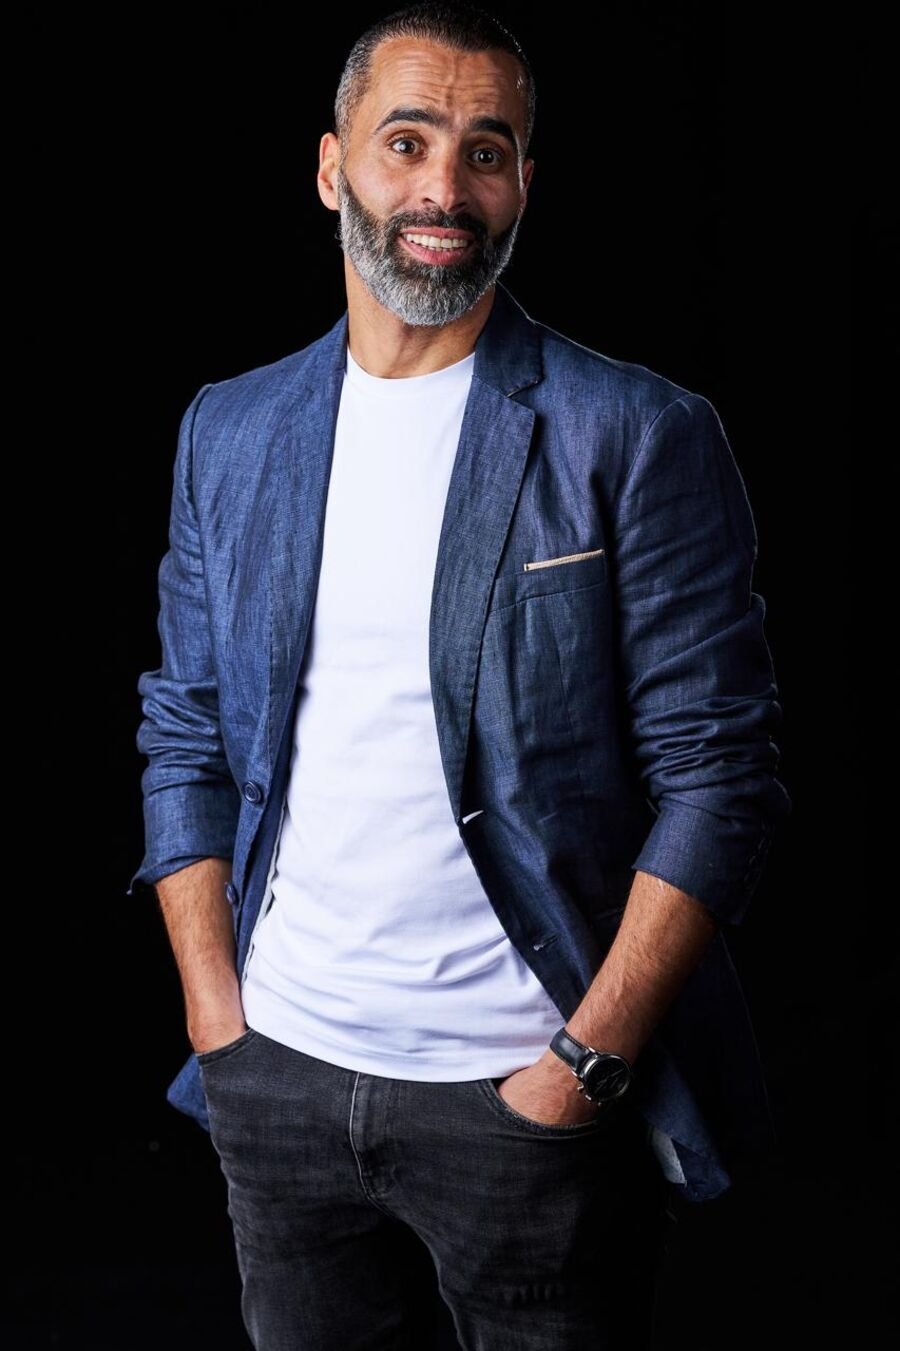
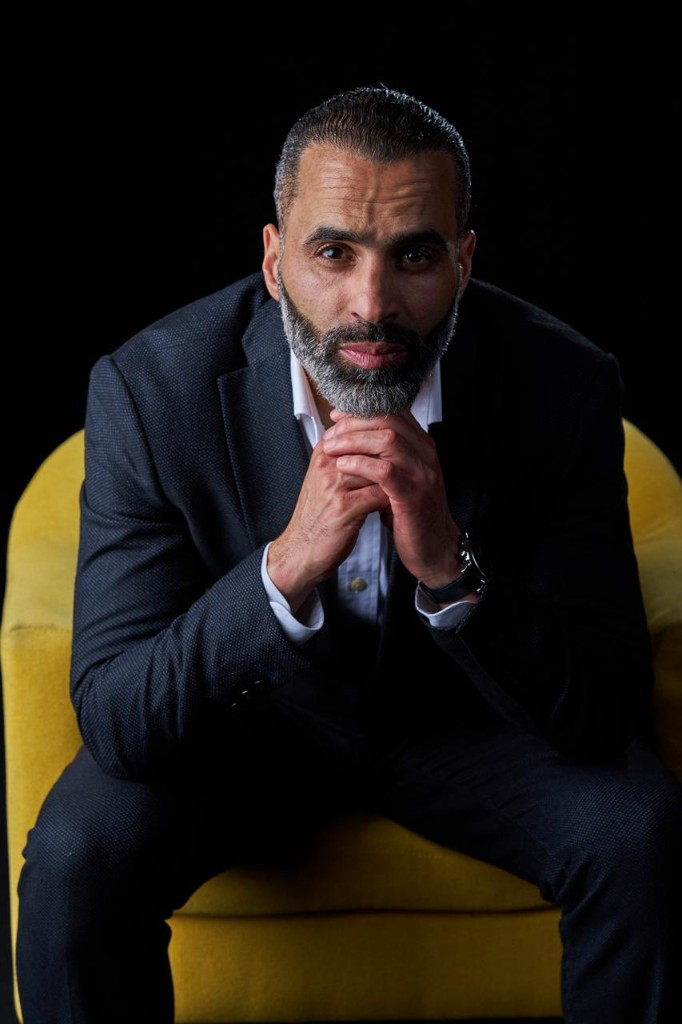
Dévoiler Hassan Zahi et aligner les textes de l'équipe (#22)
* Dévoiler Hassan Zahi à la place du formateur mystère.

* Placer le témoignage vidéo de Léa en sixième position.

* Doubler la taille des icônes Instagram et YouTube du pied de page.

* Aligner les présentations de Kheiron, Phil Darwin et Hassan Zahi.

* Ajouter les références de Hassan Zahi et Phil Darwin à leurs fiches.

---------

diff --git a/src/features/kheiron/KheironLanding.tsx b/src/features/kheiron/KheironLanding.tsx
@@ -389,16 +389,23 @@ export function KheironLanding({
         <div className="wrap team-head">
           <span className="eyebrow">Ton équipe sur les 4 jours</span>
           <h2>Kheiron ouvre le bal. Eux t&apos;emmènent jusqu&apos;à la scène.</h2>
-          <p className="lead">Phil Darwin t&apos;accompagne pendant les 4 jours. Avec un formateur mystère, ils reprennent ton texte là où Kheiron l&apos;a laissé, jusqu&apos;à la scène ouverte.</p>
+          <p className="lead">Phil Darwin et Hassan Zahi t&apos;accompagnent pendant les 4 jours. Ils reprennent ton texte là où Kheiron l&apos;a laissé, jusqu&apos;à la scène ouverte.</p>
           <div className="team">
             <article className="coach star">
               <div className="pic"><img decoding="async" src={img("kheiron.webp")} alt="Kheiron" width={900} height={910} loading="lazy" /></div>
-              <div className="body"><span className="role">Jour 1 · Masterclass</span><h3>Kheiron</h3><p>Humoriste, auteur, réalisateur. Il te fait passer sur scène et te coache sur ton propre sketch.</p></div>
+              <div className="body">
+                <span className="role">Jour 1 · Masterclass</span>
+                <h3>Kheiron</h3>
+                <p className="sub">Humoriste, comédien, auteur et réalisateur</p>
+                <p>Révélé au Jamel Comedy Club puis dans la série <em>Bref</em>, il est devenu une référence du stand-up français. Avec <em>60 minutes avec Kheiron</em>, un spectacle presque entièrement improvisé à partir du public, il a battu des records de longévité à Paris. Au cinéma, il écrit, réalise et joue dans <em>Nous trois ou rien</em>, nommé au César du meilleur premier film, puis dans <em>Mauvaises herbes</em> avec Catherine Deneuve.</p>
+                <p className="force">Sa marque : faire rire le public de lui-même, avec un sens de l&apos;improvisation et du rythme hors norme.</p>
+                <p>Pendant sa masterclass, il te fait monter sur scène et te coache sur ton propre sketch.</p>
+              </div>
             </article>
             <article className="coach">
               <div className="pic"><img className="darwin" decoding="async" src={img("phil-darwin.webp")} alt="Phil Darwin, micro à la main" width={683} height={1024} loading="lazy" /></div>
               <div className="body">
-                <span className="role">Les 4 jours · Formateur</span>
+                <span className="role">Les 4 jours</span>
                 <h3>Phil Darwin</h3>
                 <p className="sub">Humoriste, comédien et formateur</p>
                 <p>Artiste franco-congolais, il évolue depuis plus de 20 ans dans le stand-up, le théâtre et les médias. Il a joué à l&apos;Olympia, au Zénith de Paris et à La Cigale, et dans des festivals en Europe, en Afrique et en Amérique du Nord. Chroniqueur radio et comédien, il joue dans <em>Mayouya</em> de Claudia Yoka, présenté à Cannes en 2022.</p>
@@ -406,12 +413,15 @@ export function KheironLanding({
                 <p>Pendant les 4 jours, il t&apos;accompagne de tes premières prises de parole jusqu&apos;à ton sketch devant le public.</p>
               </div>
             </article>
-            <article className="coach mystery">
-              <div className="pic" aria-hidden="true"><span className="q-mark">?</span></div>
+            <article className="coach">
+              <div className="pic"><img className="zahi" decoding="async" src={img("hassan-zahi.webp")} alt="Hassan Zahi" width={682} height={1024} loading="lazy" /></div>
               <div className="body">
-                <span className="role">Jours 2 à 4 · Formateur mystère</span>
-                <h3>? ? ? ? ?</h3>
-                <p>Son nom reste secret pour l&apos;instant : il sera dévoilé prochainement. Les premiers inscrits le découvriront avant tout le monde.</p>
+                <span className="role">Les 4 jours</span>
+                <h3>Hassan Zahi</h3>
+                <p className="sub">Comédien, metteur en scène, coach et formateur certifié en santé mentale</p>
+                <p>Comédien, humoriste et metteur en scène, il pratique l&apos;improvisation théâtrale depuis plus de 17 ans et compte plus de 20 ans d&apos;expérience dans la formation et l&apos;accompagnement. Fondateur de <em>Franchement Ça Va</em>, qui fait de l&apos;humour un outil de prévention en santé mentale, il est spécialiste de l&apos;expression orale et de la confiance en soi.</p>
+                <p className="force">Sa force : t&apos;aider à dépasser tes appréhensions, révéler ta singularité artistique et oser prendre ta place sur scène.</p>
+                <p>Pendant les 4 jours, il t&apos;accompagne dans ta progression, jusqu&apos;à la présentation de ton sketch devant le public.</p>
               </div>
             </article>
           </div>
@@ -607,7 +617,7 @@ export function KheironLanding({
           <div className="faq">
             <details><summary>Je n&apos;ai jamais fait de scène. C&apos;est pour moi ?</summary><p>Oui. Aucune expérience préalable n&apos;est nécessaire, seule compte l&apos;envie de monter sur scène. Tu écris et tu rodes ton passage avec les formateurs avant la scène ouverte : tu ne montes pas devant le public sans préparation.</p></details>
             <details><summary>Est-ce que je dois arriver avec un texte ?</summary><p>Oui, apporte un premier sketch le jour 1, même brouillon. C&apos;est lui que tu joues devant Kheiron, puis que tu réécris tout au long de la formation jusqu&apos;à la scène finale. <span className="todo">Consigne exacte : durée, aide pour ceux qui partent de zéro</span></p></details>
-            <details><summary>Est-ce que Kheiron est présent les 4 jours ?</summary><p>Kheiron anime le jour 1, le samedi 28 novembre au Théâtre Apollo : la masterclass le matin, puis les passages coachés l&apos;après-midi. Phil Darwin t&apos;accompagne pendant les 4 jours, avec un formateur mystère dont le nom sera bientôt dévoilé, jusqu&apos;à la scène ouverte.</p></details>
+            <details><summary>Est-ce que Kheiron est présent les 4 jours ?</summary><p>Kheiron anime le jour 1, le samedi 28 novembre au Théâtre Apollo : la masterclass le matin, puis les passages coachés l&apos;après-midi. Phil Darwin et Hassan Zahi t&apos;accompagnent pendant les 4 jours, jusqu&apos;à la scène ouverte.</p></details>
             <details><summary>Pourquoi deux week-ends et pas 4 jours d&apos;affilée ?</summary><p>La semaine entre les deux sessions te laisse le temps de réécrire ton sketch avec ta feuille de route personnelle et d&apos;arriver au deuxième week-end avec un texte qui a déjà mûri. Et c&apos;est compatible avec un emploi ou une autre activité.</p></details>
             <details><summary>Comment se passe la scène finale ?</summary><p>Le dimanche 6 décembre au soir, dans un café-théâtre parisien, devant du public. Tu joues ton passage de 4 à 5 minutes, filmé en conditions professionnelles par une équipe de captation. Tu as un retour à chaud juste après.</p></details>
             <details><summary>Je ne suis pas à Paris, ça vaut le coup ?</summary><p>Les sessions ont lieu sur deux week-ends, ce qui permet de venir sans poser de congés. <span className="todo">Infos logement / tarifs hôtels partenaires</span></p></details>

diff --git a/src/lib/defaults.ts b/src/lib/defaults.ts
@@ -59,7 +59,7 @@ export const defaultSite = {
 } as const;
 
 /** Formateurs affichés sur le site, en plus des intervenants professionnels. */
-export const publicFormateurSlugs = ["phil-darwin", "formateur-mystere"] as const;
+export const publicFormateurSlugs = ["phil-darwin", "hassan-zahi"] as const;
 
 export const defaultIntervenants: IntervenantData[] = [
   {
@@ -92,13 +92,13 @@ export const defaultIntervenants: IntervenantData[] = [
   {
     slug: "hassan-zahi",
     nom: "Hassan Zahi",
-    role: "Réalisateur & formateur",
+    role: "Comédien, metteur en scène, coach et formateur certifié en santé mentale",
     parrain: false,
     categorie: "formateur",
-    bio: "Formateur pédagogique. Accompagne les élèves sur la mise en scène, le découpage et la conduite de plateau. Retours pro directs pour gagner en autonomie sur un vrai tournage.",
-    filmographie: ["Rose"],
-    photoUrl: "/images/formations/formation-realiser-court-metrage.jpg",
-    photoMimeType: "image/jpeg",
+    bio: "Comédien, humoriste et metteur en scène, il pratique l'improvisation théâtrale depuis plus de 17 ans et compte plus de 20 ans d'expérience dans la formation et l'accompagnement. Fondateur de Franchement Ça Va, qui fait de l'humour un outil de prévention en santé mentale, il est spécialiste de l'expression orale et de la confiance en soi. Sa force : t'aider à dépasser tes appréhensions, révéler ta singularité artistique et oser prendre ta place sur scène. Pendant les 4 jours, il t'accompagne dans ta progression, jusqu'à la présentation de ton sketch devant le public.",
+    filmographie: ["Braquo", "Destino", "En attendant demain", "Famille d'accueil", "Rose"],
+    photoUrl: "/images/intervenants/hassan-zahi.webp",
+    photoMimeType: "image/webp",
   },
   {
     slug: "sandy-formateur",
@@ -114,10 +114,10 @@ export const defaultIntervenants: IntervenantData[] = [
   {
     slug: "kheiron",
     nom: "Kheiron",
-    role: "Humoriste, auteur et réalisateur",
+    role: "Humoriste, comédien, auteur et réalisateur",
     parrain: false,
     categorie: "professionnel",
-    bio: "Humoriste, auteur et réalisateur. Le jour 1, il anime la masterclass et te coache sur ton propre sketch : tu joues devant lui, il te corrige sur ton texte.",
+    bio: "Révélé au Jamel Comedy Club puis dans la série Bref, il est devenu une référence du stand-up français. Avec 60 minutes avec Kheiron, un spectacle presque entièrement improvisé à partir du public, il a battu des records de longévité à Paris. Au cinéma, il écrit, réalise et joue dans Nous trois ou rien, nommé au César du meilleur premier film, puis dans Mauvaises herbes avec Catherine Deneuve. Sa marque : faire rire le public de lui-même, avec un sens de l'improvisation et du rythme hors norme. Pendant sa masterclass, il te fait monter sur scène et te coache sur ton propre sketch.",
     filmographie: [
       "60 minutes",
       "Dragon",
@@ -134,20 +134,9 @@ export const defaultIntervenants: IntervenantData[] = [
     role: "Humoriste, comédien et formateur",
     parrain: false,
     categorie: "formateur",
-    bio: "Artiste franco-congolais, il évolue depuis plus de 20 ans dans le stand-up, le théâtre et les médias. Il a joué à l'Olympia, au Zénith de Paris et à La Cigale, et dans des festivals en Europe, en Afrique et en Amérique du Nord. Chroniqueur radio et comédien, il joue dans Mayouya de Claudia Yoka, présenté à Cannes en 2022. Il transmet le métier : écriture humoristique, interprétation, rythme comique et présence scénique. Pendant les 4 jours, il t'accompagne jusqu'à ton sketch devant le public.",
-    filmographie: ["Mayouya"],
+    bio: "Artiste franco-congolais, il évolue depuis plus de 20 ans dans le stand-up, le théâtre et les médias. Il a joué à l'Olympia, au Zénith de Paris et à La Cigale, et dans des festivals en Europe, en Afrique et en Amérique du Nord. Chroniqueur radio et comédien, il joue dans Mayouya de Claudia Yoka, présenté à Cannes en 2022. Il transmet le métier en masterclass et en formation : écriture humoristique, interprétation, rythme comique et présence scénique. Pendant les 4 jours, il t'accompagne de tes premières prises de parole jusqu'à ton sketch devant le public.",
+    filmographie: ["La vie de Lougah", "Jamel Comedy Club", "Mayouya"],
     photoUrl: "/images/intervenants/phil-darwin.webp",
-    photoMimeType: "image/webp",
-  },
-  {
-    slug: "formateur-mystere",
-    nom: "Formateur mystère",
-    role: "Formateur",
-    parrain: false,
-    categorie: "formateur",
-    bio: "Son nom reste secret pour l'instant : il sera dévoilé prochainement. Les premiers inscrits le découvriront avant tout le monde.",
-    filmographie: [],
-    photoUrl: "/images/intervenants/formateur-mystere.webp",
     photoMimeType: "image/webp",
   },
 ];

diff --git a/src/lib/formations-catalog.ts b/src/lib/formations-catalog.ts
@@ -2379,12 +2379,12 @@ export const formationsCatalog: Omit<FormationData, "active">[] = [
       "Montage de la captation remis après la formation",
     ],
     encadrement:
-      "Le jour 1, Kheiron anime la masterclass au Théâtre Apollo et coache les passages. Phil Darwin accompagne le groupe pendant les 4 jours, avec un formateur dont le nom reste secret jusqu'à l'annonce.",
+      "Le jour 1, Kheiron anime la masterclass au Théâtre Apollo et coache les passages. Phil Darwin et Hassan Zahi accompagnent le groupe pendant les 4 jours, jusqu'à la scène ouverte.",
     evaluation:
       "Le jour 1, ton passage devant Kheiron est filmé : c'est le point de départ. Les filages du jour 3 servent de retours en cours de parcours. La scène ouverte du jour 4 est filmée, avec un bilan à chaud. Tu repars avec les captations et une attestation de fin de formation.",
     accessibilite:
       "Les locaux sont accessibles et les modalités pédagogiques peuvent être adaptées en fonction des besoins. Toute situation particulière est étudiée en amont avec le référent handicap.",
-    intervenants: ["kheiron", "phil-darwin", "formateur-mystere"],
+    intervenants: ["kheiron", "phil-darwin", "hassan-zahi"],
     faq: [
       {
         q: "Je n'ai jamais fait de scène. C'est pour moi ?",
@@ -2396,7 +2396,7 @@ export const formationsCatalog: Omit<FormationData, "active">[] = [
       },
       {
         q: "Est-ce que Kheiron est présent les 4 jours ?",
-        r: "Kheiron anime le jour 1, le samedi 28 novembre au Théâtre Apollo : la masterclass, puis les passages coachés. Phil Darwin t'accompagne pendant les 4 jours, jusqu'à la scène ouverte.",
+        r: "Kheiron anime le jour 1, le samedi 28 novembre au Théâtre Apollo : la masterclass, puis les passages coachés. Phil Darwin et Hassan Zahi t'accompagnent pendant les 4 jours, jusqu'à la scène ouverte.",
       },
       {
         q: "Pourquoi deux week-ends ?",

diff --git a/src/features/temoignages-video/videos.ts b/src/features/temoignages-video/videos.ts
@@ -11,12 +11,12 @@ const vid = (file: string) => `${KHEIRON_MEDIA}/videos/${file}`;
 
 /** Les sept témoignages filmés, partagés par l'accueil et la page Kheiron. */
 export const temoignageVideos: readonly TemoignageVideo[] = [
-  { src: vid("temoignage-lea.mp4"), poster: img("temoignage-lea.webp"), nom: "Léa" },
   { src: vid("temoignage-clement.mp4"), poster: img("temoignage-clement.webp"), nom: "Clément" },
   { src: vid("temoignage-chloe.mp4"), poster: img("temoignage-chloe.webp"), nom: "Chloé" },
   { src: vid("temoignage-maxime.mp4"), poster: img("temoignage-maxime.webp"), nom: "Maxime" },
   { src: vid("temoignage-klemence.mp4"), poster: img("temoignage-klemence.webp"), nom: "Klémence" },
   { src: vid("temoignage-caner.mp4"), poster: img("temoignage-caner.webp"), nom: "Caner" },
+  { src: vid("temoignage-lea.mp4"), poster: img("temoignage-lea.webp"), nom: "Léa" },
   { src: vid("temoignage-jean.mp4"), poster: img("temoignage-jean.webp"), nom: "Jean" },
 ];
 

diff --git a/src/components/layout/Footer.tsx b/src/components/layout/Footer.tsx
@@ -109,7 +109,7 @@ export function Footer({ site, formations }: FooterProps) {
                         aria-label="Instagram Cinémergence"
                         className="text-cream/70 transition-colors hover:text-or-light"
                       >
-                        <InstagramIcon />
+                        <InstagramIcon className="h-10 w-10" />
                       </a>
                     )}
                     {site.youtubeUrl && (
@@ -120,7 +120,7 @@ export function Footer({ site, formations }: FooterProps) {
                         aria-label="YouTube Cinémergence"
                         className="text-cream/70 transition-colors hover:text-or-light"
                       >
-                        <YoutubeIcon />
+                        <YoutubeIcon className="h-10 w-10" />
                       </a>
                     )}
                   </li>

diff --git a/src/features/kheiron/kheiron.css b/src/features/kheiron/kheiron.css
@@ -361,6 +361,7 @@
 .kheiron .soldout-tag{display:inline-flex;background:var(--accent);color:#fff;font-size:12px;font-weight:800;letter-spacing:1.4px;border-radius:999px;padding:5px 10px}
 .kheiron .soldout p{margin-top:10px;font-size:16px;line-height:1.45}
 .kheiron .coach .pic img.darwin{object-position:50% 8%}
+.kheiron .coach .pic img.zahi{object-position:50% 18%}
 .kheiron .shield{font-size:22px}
 .kheiron .sticky b{color:var(--text)}
 .kheiron-merci{min-height:100vh;display:grid;place-items:center;padding:40px 16px;background:#080A0F;color:#fff;font:400 17px/1.6 var(--font-k-sans),system-ui,sans-serif}

diff --git a/src/lib/site-media.ts b/src/lib/site-media.ts
@@ -138,7 +138,7 @@ export function resolveFormationCoverUrl(slug: string, explicit?: string | null)
 export const committedIntervenantPhotos: Record<string, string> = {
   kheiron: "/images/intervenants/kheiron.webp",
   "phil-darwin": "/images/intervenants/phil-darwin.webp",
-  "formateur-mystere": "/images/intervenants/formateur-mystere.webp",
+  "hassan-zahi": "/images/intervenants/hassan-zahi.webp",
 };
 
 export const staticIntervenantPhotos: Record<string, string> = {
